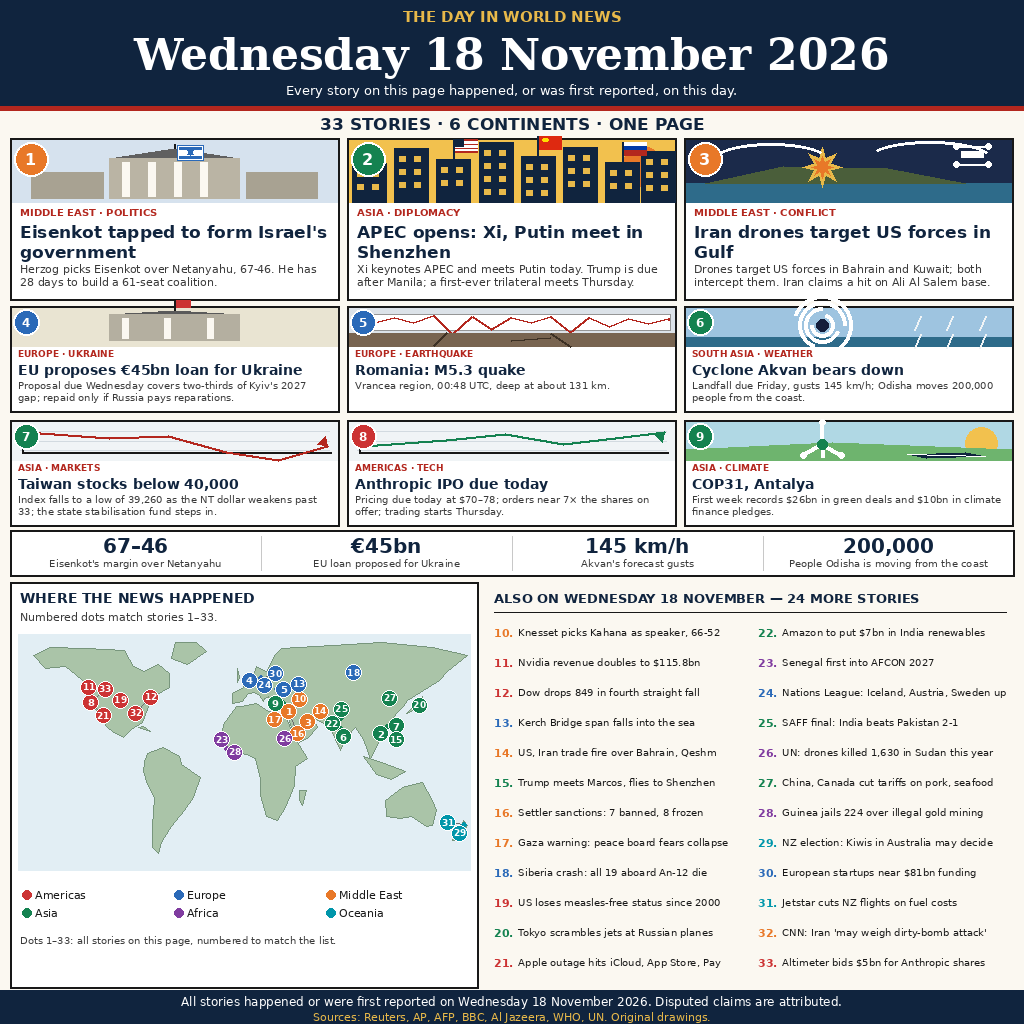
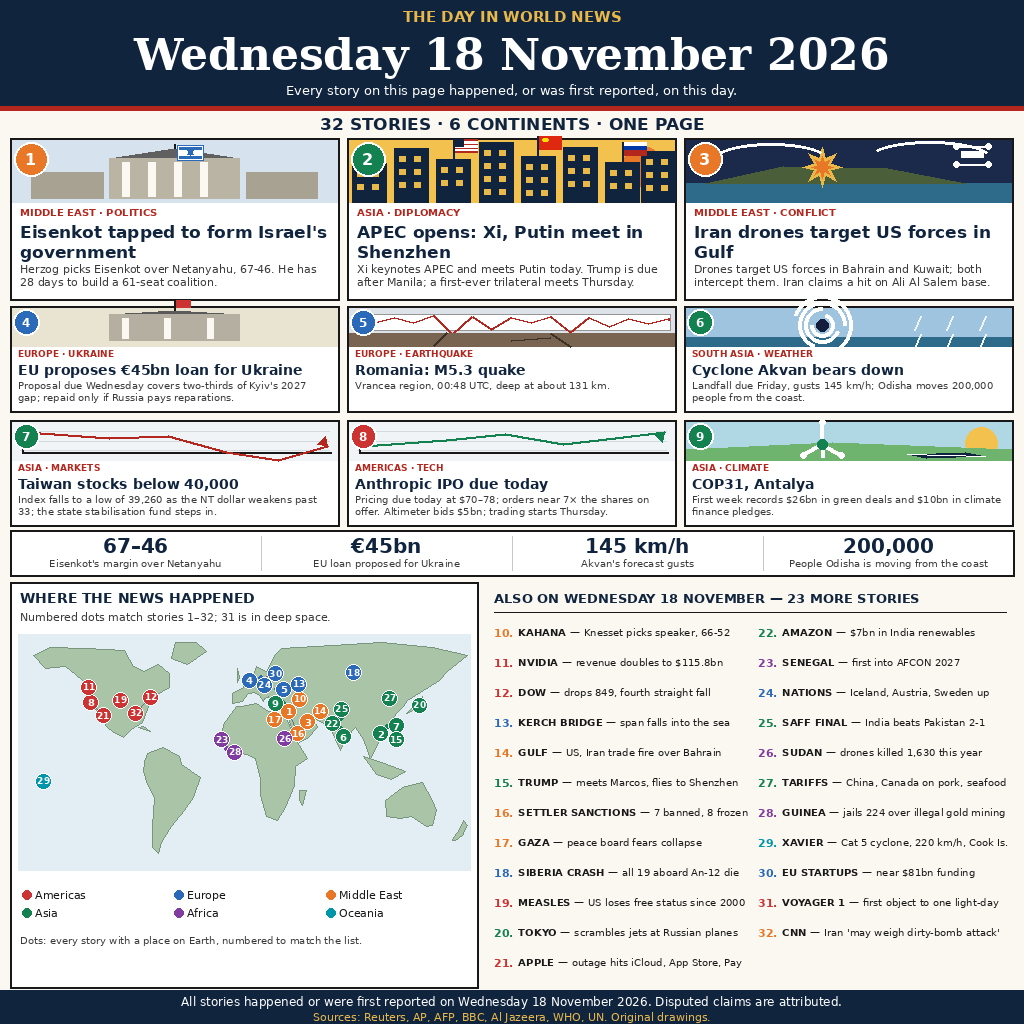
Add files via upload

diff --git a/draw.py b/draw.py
@@ -1,22 +1,31 @@
 #!/usr/bin/env python3
 """Draw the entry image for make.fun competition news-image-20261118.
 
-v2 — a newspaper front page summing up Wednesday 18 November 2026 in
+v3 — a newspaper front page summing up Wednesday 18 November 2026 in
 one image, built to the shape of the day's top-ranked entries: serif
 masthead with the date, a true story count, three hero stories, six mid
 stories, a "By the numbers" strip, a world-map panel, and a numbered
-also-on list. 33 stories in total, across 6 continents.
+also-on list with bold lead-ins. 32 stories in total, across 6
+continents.
 
-Numbering 1-33 (the lesson from the 17 Nov v3 revision, applied from
+Numbering 1-32 (the lesson from the 17 Nov v3 revision, applied from
 the first draft): every story has one serial number, in reading order --
-heroes 1-3, mids 4-9, also-on 10-33. The number appears as a badge on
-its hero/mid panel, as a numbered circle on the world map (all 33 stories; crowded dots sit just outside their country with
-a thin leader line to the exact spot), and before its line in the
-also-on list,
-always in the story's continent colour, so a reader can match any map
-marker to its story without guessing. Flat shapes and crisp text only,
-so the image stays legible at small sizes and the PNG stays far under
-the 1 MiB limit. Deterministic: same input, same bytes.
+heroes 1-3, mids 4-9, also-on 10-32. The number appears as a badge on
+its hero/mid panel, as a numbered circle on the world map (31 of the 32
+stories -- Voyager 1 (31) is in deep space and has no place on Earth;
+crowded dots sit just outside their country with a thin leader line to
+the exact spot), and before its line in the also-on list, always in the
+story's continent colour, so a reader can match any map marker to its
+story without guessing. Flat shapes and crisp text only, so the image
+stays legible at small sizes and the PNG stays far under the 1 MiB
+limit. Deterministic: same input, same bytes.
+
+v3 changes vs the submitted v2 (97.90%): Voyager 1 (first human-made
+object to reach one light-day from the Sun, NASA 10:16 UTC 18 Nov) and
+Cyclone Xavier (Category 5, Cook Islands, MetService bulletin 18 Nov)
+replace two wrong lines -- Jetstar (a March 2026 story) and the NZ
+election (held Saturday 7 Nov). Altimeter's $5bn Anthropic bid (16 Nov)
+is folded into hero panel 8 as context instead of standing alone.
 
 Every story happened or was first reported on Wednesday 18 November
 2026 as reported on that morning's news pages; contested claims are
@@ -377,6 +386,8 @@ CONTINENTS = [
     # New Zealand
     _poly((166, -46), (167, -44), (170, -41), (173, -38), (175, -34.5),
           (178, -37), (176, -40), (175, -42.5), (172, -44), (169, -46)),
+    # Cook Islands (tiny -- Cyclone Xavier, 29)
+    _poly((-163, -11), (-157, -11), (-157, -9), (-163, -9)),
     # United Kingdom
     _poly((-5, 50), (-3, 53), (-5, 58)),
     # Japan
@@ -392,15 +403,15 @@ CONTINENTS = [
     _poly((120, 18), (122, 18), (122, 14), (120, 14)),
 ]
 
-# Numbered dots for ALL 33 stories, placed from each story's real
-# (lon, lat) through the same projection and verified one by one
+# Numbered dots for 31 of the 32 stories, placed from each story's
+# real (lon, lat) through the same projection and verified one by one
 # (point-in-polygon against the drawn continents): every anchor sits
 # on its own country -- no dot in the sea, none on a neighbour, none
-# placed by guesswork. Where dots would collide, the badge sits a few
-# units off the anchor on land (or, for 31 Auckland, just off New
-# Zealand in the Tasman Sea -- the only sea dot, unavoidable at this
-# scale) with a thin leader line to the exact spot. Offsets (dx, dy)
-# are in map units from the projected anchor.
+# placed by guesswork. Story 31 (Voyager 1) has no dot: it is in deep
+# space and has no place on Earth. Where dots would collide, the badge
+# sits a few units off the anchor on land with a thin leader line to
+# the exact spot. Offsets (dx, dy) are in map units from the projected
+# anchor.
 # (lon, lat, colour, n, dx, dy)
 MARKERS_LL = [
     (35.2, 31.8, C_MIDEAST, 1, 0, 0),      # Jerusalem (Eisenkot)
@@ -431,11 +442,10 @@ MARKERS_LL = [
     (32.5, 15.6, C_AFRICA, 26, 0, 0),     # Khartoum (Sudan drones)
     (116.4, 39.9, C_ASIA, 27, 0, 0),      # Beijing (China-Canada tariffs)
     (-13.7, 9.5, C_AFRICA, 28, 8, 3),     # Conakry (Guinea jails)
-    (174.8, -41.3, C_OCEANIA, 29, -4, 0),  # Wellington (NZ election)
+    (-160.0, -10.0, C_OCEANIA, 29, 0, 0),  # Cook Islands (Cyclone Xavier)
     (13.4, 52.5, C_EUROPE, 30, 14, -4),   # Berlin (European startups)
-    (174.8, -36.9, C_OCEANIA, 31, -16, -2),  # Auckland (Jetstar NZ)
+    # 31 Voyager 1: no dot -- deep space, no place on Earth
     (-77.0, 38.9, C_AMERICAS, 32, -12, 13),  # Washington DC (dirty-bomb report)
-    (-121.9, 37.8, C_AMERICAS, 33, 14, -13),  # San Francisco (Altimeter bid)
 ]
 # (anchor px, py, display px, py, colour, n)
 MAP_MARKERS = []
@@ -493,7 +503,7 @@ MIDS = [
      lambda d, x, y, w, h: mini_chart(d, x, y, w, h, "down")),
     ("AMERICAS · TECH", "Anthropic IPO due today",
      "Pricing due today at $70\u201378; orders near 7\u00d7 the shares on "
-     "offer; trading starts Thursday.",
+     "offer. Altimeter bids $5bn; trading starts Thursday.",
      lambda d, x, y, w, h: mini_chart(d, x, y, w, h, "up")),
     ("ASIA · CLIMATE", "COP31, Antalya",
      "First week records $26bn in green deals and $10bn in climate "
@@ -509,37 +519,37 @@ BY_NUMBERS = [
     ("200,000", "People Odisha is moving from the coast"),
 ]
 
-# Also-on: one line each (headline + short detail), numbered 10-33.
-# Continent colour per story for the number.
+# Also-on: one line each, numbered 10-32. Each line is (bold lead-in,
+# rest of the line, continent colour) -- the bold lead keeps the list
+# scannable at small size, like the top entries do.
 ALSO_ON = [
-    ("Knesset picks Kahana as speaker, 66-52", C_MIDEAST),
-    ("Nvidia revenue doubles to $115.8bn", C_AMERICAS),
-    ("Dow drops 849 in fourth straight fall", C_AMERICAS),
-    ("Kerch Bridge span falls into the sea", C_EUROPE),
-    ("US, Iran trade fire over Bahrain, Qeshm", C_MIDEAST),
-    ("Trump meets Marcos, flies to Shenzhen", C_ASIA),
-    ("Settler sanctions: 7 banned, 8 frozen", C_MIDEAST),
-    ("Gaza warning: peace board fears collapse", C_MIDEAST),
-    ("Siberia crash: all 19 aboard An-12 die", C_EUROPE),
-    ("US loses measles-free status since 2000", C_AMERICAS),
-    ("Tokyo scrambles jets at Russian planes", C_ASIA),
-    ("Apple outage hits iCloud, App Store, Pay", C_AMERICAS),
-    ("Amazon to put $7bn in India renewables", C_ASIA),
-    ("Senegal first into AFCON 2027", C_AFRICA),
-    ("Nations League: Iceland, Austria, Sweden up", C_EUROPE),
-    ("SAFF final: India beats Pakistan 2-1", C_ASIA),
-    ("UN: drones killed 1,630 in Sudan this year", C_AFRICA),
-    ("China, Canada cut tariffs on pork, seafood", C_ASIA),
-    ("Guinea jails 224 over illegal gold mining", C_AFRICA),
-    ("NZ election: Kiwis in Australia may decide", C_OCEANIA),
-    ("European startups near $81bn funding", C_EUROPE),
-    ("Jetstar cuts NZ flights on fuel costs", C_OCEANIA),
-    ("CNN: Iran 'may weigh dirty-bomb attack'", C_MIDEAST),
-    ("Altimeter bids $5bn for Anthropic shares", C_AMERICAS),
+    ("KAHANA \u2014", "Knesset picks speaker, 66-52", C_MIDEAST),
+    ("NVIDIA \u2014", "revenue doubles to $115.8bn", C_AMERICAS),
+    ("DOW \u2014", "drops 849, fourth straight fall", C_AMERICAS),
+    ("KERCH BRIDGE \u2014", "span falls into the sea", C_EUROPE),
+    ("GULF \u2014", "US, Iran trade fire over Bahrain", C_MIDEAST),
+    ("TRUMP \u2014", "meets Marcos, flies to Shenzhen", C_ASIA),
+    ("SETTLER SANCTIONS \u2014", "7 banned, 8 frozen", C_MIDEAST),
+    ("GAZA \u2014", "peace board fears collapse", C_MIDEAST),
+    ("SIBERIA CRASH \u2014", "all 19 aboard An-12 die", C_EUROPE),
+    ("MEASLES \u2014", "US loses free status since 2000", C_AMERICAS),
+    ("TOKYO \u2014", "scrambles jets at Russian planes", C_ASIA),
+    ("APPLE \u2014", "outage hits iCloud, App Store, Pay", C_AMERICAS),
+    ("AMAZON \u2014", "$7bn in India renewables", C_ASIA),
+    ("SENEGAL \u2014", "first into AFCON 2027", C_AFRICA),
+    ("NATIONS \u2014", "Iceland, Austria, Sweden up", C_EUROPE),
+    ("SAFF FINAL \u2014", "India beats Pakistan 2-1", C_ASIA),
+    ("SUDAN \u2014", "drones killed 1,630 this year", C_AFRICA),
+    ("TARIFFS \u2014", "China, Canada on pork, seafood", C_ASIA),
+    ("GUINEA \u2014", "jails 224 over illegal gold mining", C_AFRICA),
+    ("XAVIER \u2014", "Cat 5 cyclone, 220 km/h, Cook Is.", C_OCEANIA),
+    ("EU STARTUPS \u2014", "near $81bn funding", C_EUROPE),
+    ("VOYAGER 1 \u2014", "first object to one light-day", C_AMERICAS),
+    ("CNN \u2014", "Iran 'may weigh dirty-bomb attack'", C_MIDEAST),
 ]
 
-STORY_COUNT = len(HEROES) + len(MIDS) + len(ALSO_ON)  # 33
-assert STORY_COUNT == 33, STORY_COUNT
+STORY_COUNT = len(HEROES) + len(MIDS) + len(ALSO_ON)  # 32
+assert STORY_COUNT == 32, STORY_COUNT
 
 # Number colours: the badge/marker/list number of each story takes its
 # continent colour, so the number cross-references the map legend.
@@ -558,7 +568,7 @@ def main():
     centered(d, 82, "Every story on this page happened, or was first "
              "reported, on this day.", font(REG, 13), WHITE)
     d.rectangle([0, 106, W, 110], fill=RED)
-    centered(d, 114, "33 STORIES \u00b7 6 CONTINENTS \u00b7 ONE PAGE",
+    centered(d, 114, "32 STORIES \u00b7 6 CONTINENTS \u00b7 ONE PAGE",
              font(BOLD, 17), NAVY)
 
     margin, gap = 10, 8
@@ -636,7 +646,8 @@ def main():
                 outline=INK, width=2)
     d.text((mx + 10, by2 + 8), "WHERE THE NEWS HAPPENED",
            font=font(BOLD, 14), fill=NAVY)
-    d.text((mx + 10, by2 + 28), "Numbered dots match stories 1\u201333.",
+    d.text((mx + 10, by2 + 28), "Numbered dots match stories 1\u201332; "
+           "31 is in deep space.",
            font=font(REG, 11), fill=GREY)
     map_x, map_y = mx + 8, by2 + 52
     map_w, map_h = mpw - 16, 236
@@ -667,7 +678,7 @@ def main():
         d.ellipse([lx, ly2 + 2, lx + 9, ly2 + 11], fill=col)
         d.text((lx + 13, ly2), name, font=font(REG, 11), fill=INK)
     d.text((mx + 10, by2 + 352),
-           "Dots 1\u201333: all stories on this page, numbered to match "
+           "Dots: every story with a place on Earth, numbered to match "
            "the list.",
            font=font(REG, 10), fill=GREY)
 
@@ -675,11 +686,11 @@ def main():
     ax = mx + mpw + gap  # 486
     aw = W - margin - ax  # 528
     d.text((ax + 8, by2 + 8), "ALSO ON WEDNESDAY 18 NOVEMBER \u2014 "
-           "24 MORE STORIES", font=font(BOLD, 13), fill=NAVY)
+           "23 MORE STORIES", font=font(BOLD, 13), fill=NAVY)
     d.line([ax + 8, by2 + 30, ax + aw - 8, by2 + 30], fill=INK, width=1)
     col1_x, col2_x = ax + 8, ax + 8 + (aw - 8) // 2 + 4
     col_w = (aw - 8) // 2 - 4  # ~252
-    for j, (line, col) in enumerate(ALSO_ON):
+    for j, (lead, line, col) in enumerate(ALSO_ON):
         n = 10 + j
         col_x = col1_x if j < 12 else col2_x
         row = j if j < 12 else j - 12
@@ -688,7 +699,10 @@ def main():
         nfnt = font(BOLD, 11)
         nw = d.textlength(num, font=nfnt)
         d.text((col_x, iy), num, font=nfnt, fill=col)
-        d.text((col_x + nw + 5, iy), line, font=font(REG, 10), fill=INK)
+        lx = col_x + nw + 5
+        d.text((lx, iy), lead, font=font(BOLD, 10), fill=INK)
+        lw = d.textlength(lead, font=font(BOLD, 10))
+        d.text((lx + lw + 4, iy), line, font=font(REG, 10), fill=INK)
 
     # ---- Footer ----
     d.rectangle([0, 990, W, H], fill=NAVY)
